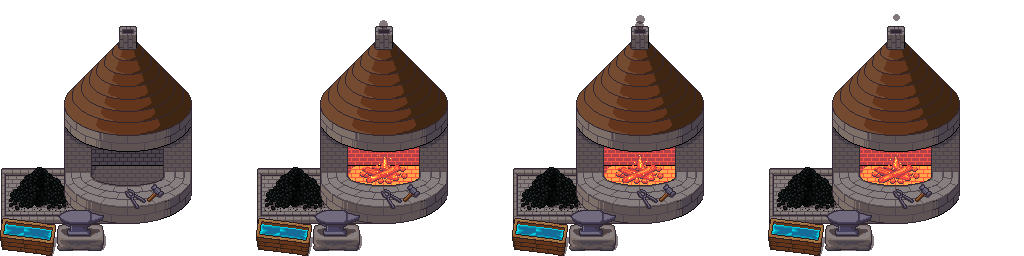
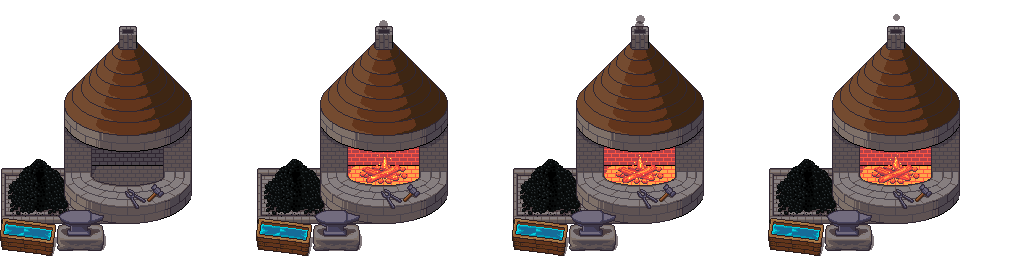
feat: blacksmith looks good

diff --git a/third-party/bluecarrot16/license.md b/third-party/bluecarrot16/license.md
@@ -3,3 +3,4 @@
 - `ore.png` under CC-BY 3.0 - "[LPC] Ore and Forge" by bluecarrot16, commissioned by Pierre Vigier (pvigier). CC-BY 3.0+ / GPL 3.0+ / OGA-BY 3.0+
 - `blacksmith-smelter.png` - "[LPC] Blacksmith Workshop" by bluecarrot16. License: OGA-BY 3.0, CC-BY 3.0+, GPL 2.0+. <http://opengameart.org/content/lpc-blacksmith>
 - `blacksmith.aseprite` and `blacksmith.png` composed by Mirco Kraenz, based on "[LPC] Blacksmith Workshop" by bluecarrot16. Changes made: composed imagery.
+- `bellows.aseprite` and `bellows.png` composed by Mirco Kraenz, based on "[LPC] Blacksmith Workshop" by bluecarrot16. Changes made: composed imagery.

diff --git a/README.md b/README.md
@@ -114,7 +114,7 @@ v0.1.0
   - [x] blacksmith
     - [x] replace placeholder sprite
     - [x] animations
-    - [ ] details
+    - [x] details
   - [ ] charcoal kiln
     - [ ] replace placeholder sprite
     - [ ] animations
